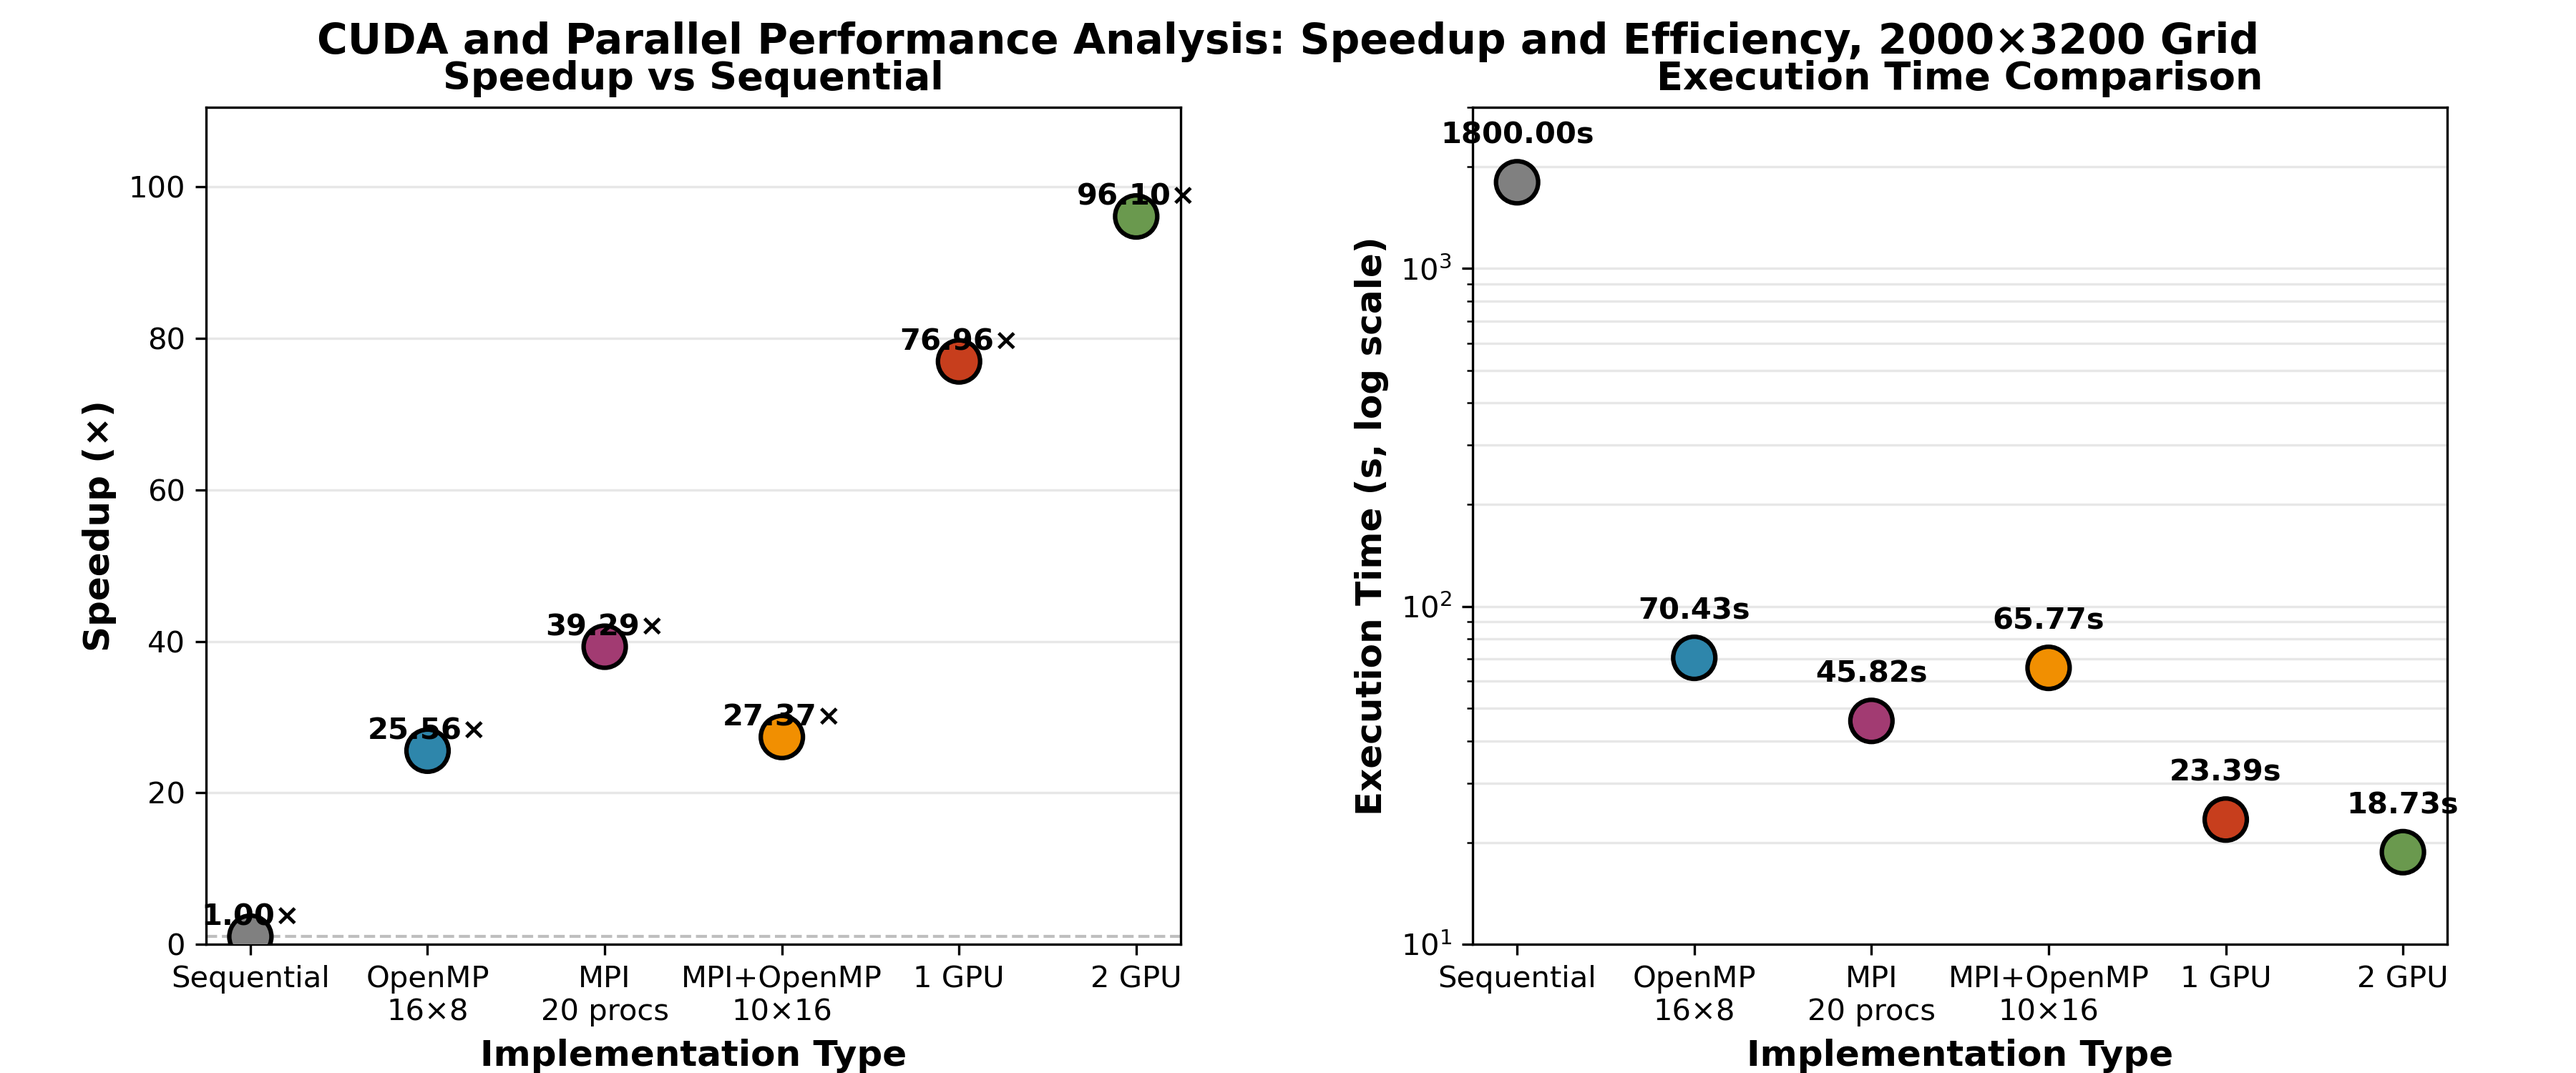
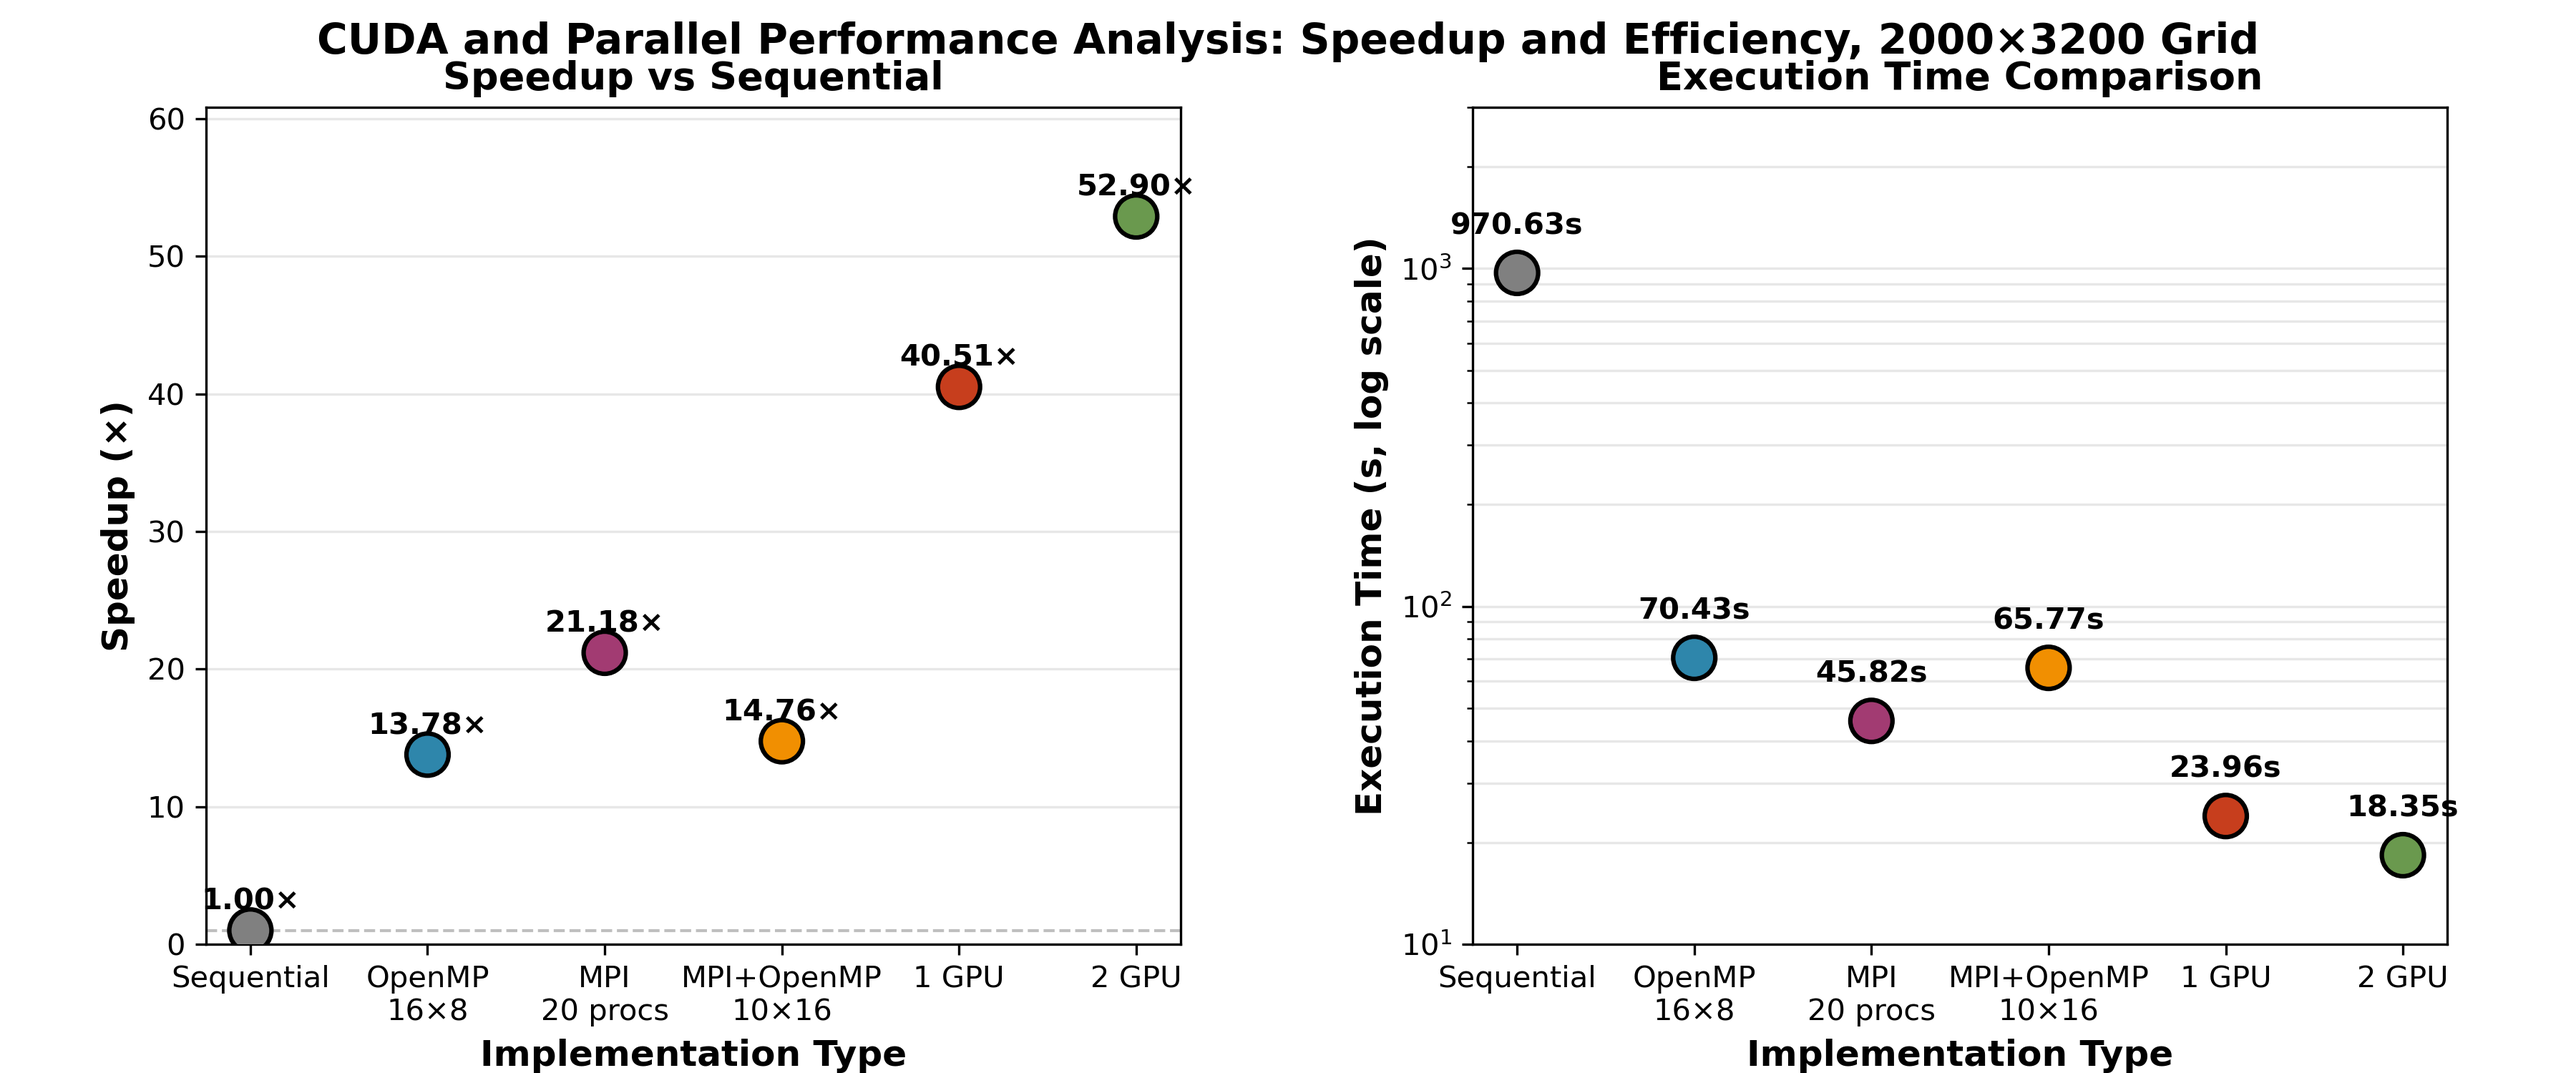
fixes report

diff --git a/src/cuda_res.py b/src/cuda_res.py
@@ -9,7 +9,7 @@ import matplotlib.pyplot as plt
 import numpy as np
 
 # Sequential baseline
-SEQUENTIAL_TIME = 1800.0  # seconds
+SEQUENTIAL_TIME = 970.629623  # seconds
 
 # Data for all implementations
 DATA = {
@@ -22,12 +22,12 @@ DATA = {
         '2 GPU'
     ],
     'times': [
-        1800.0,      # Sequential
+        970.629623,      # Sequential
         70.43,       # OpenMP 16×8
         45.816858,   # MPI 20
         65.774599,   # MPI 10×16
-        23.390093,   # 1 GPU
-        18.731347    # 2 GPU
+        23.96,   # 1 GPU
+        18.35    # 2 GPU
     ],
     'colors': [
         '#808080',   # Gray for sequential

diff --git a/Report/REPORT.md b/Report/REPORT.md
@@ -392,8 +392,9 @@ src/
 | 2000 × 3200, 16 × 8 threads OpenMP | 2618 | 70.43 | 1.327e-01 | 1.412e-01 | - | 45.20 | 9.91 | 8.62 | - | - | - | - | - | 0.09 | 6.64 |
 | 2000 × 3200, 20 MPI | 2641 | 45.82 | 1.438e-01 | 1.438e-01 | - | 23.25 | 3.48 | 9.90 | - | - | 0.127 | 4.40 | 4.65 | 0.04 | - |
 | 2000 × 3200, MPI + OpenMP  | 2641 | 65.77 | 1.438e-01 | 1.494e-01 | - | 15.56 | 3.46 | 9.71 | - | - | 2.260 | 25.64 | 9.12 | 0.037 | - |
-| 2000 × 3200, 1 GPU | 2641 | 23.39 | 1.438e-01 | 1.495e-01 | 1.987 | 1.35 | 0.77 | 0.81 | 12.87 | 0.18232 | 1.09 | 5.33 | - | - | - |
-| 2000 × 3200, 2 GPU | 2641 | 18.73 | 1.438e-01 | 1.495e-01 | 1.038 | 0.70 | 0.34 | 0.41 | 12.33 | 0.12619 | 0.51 | 3.68 | - | - | - |
+| 2000 × 3200, 1 GPU | 2641 | 23.96 | 1.438e-01 | 1.494e-01 | 0.014 | 2.84 | 2.21 | 18.59 | 0.043 | 0.012 | - | - | - | 1.71 | - |
+| 2000 × 3200, 2 GPU | 2641 | 18.35 | 1.438e-01 | 1.494e-01 | 0.009 | 1.36 | 0.97 | 14.64 | 0.286 | 0.114 | 0.26 | 0.014 | - | 0.91 | - |
+
 
 
 
@@ -413,7 +414,7 @@ $$0.006733 * 2600 / 73  * 2000 / 40 * 3200 / 40 = 959.22$$,
 
 При этом видим, что ускорение GPU операций менее 2ух раз при увеличении количества GPU в 2 раза.
 
-Копирование с GPU --> CPU присутствует в обоих версиях, для поддержания единообразия кодовой базы.  
+Копирование с GPU --> CPU присутствует только для случая нескольких GPU (как доп требование к заданию).
 
 Это может быть связано с дополнительными расходами на обмены между ГПУ, а так же не стабильной операцией копирования.  
 
